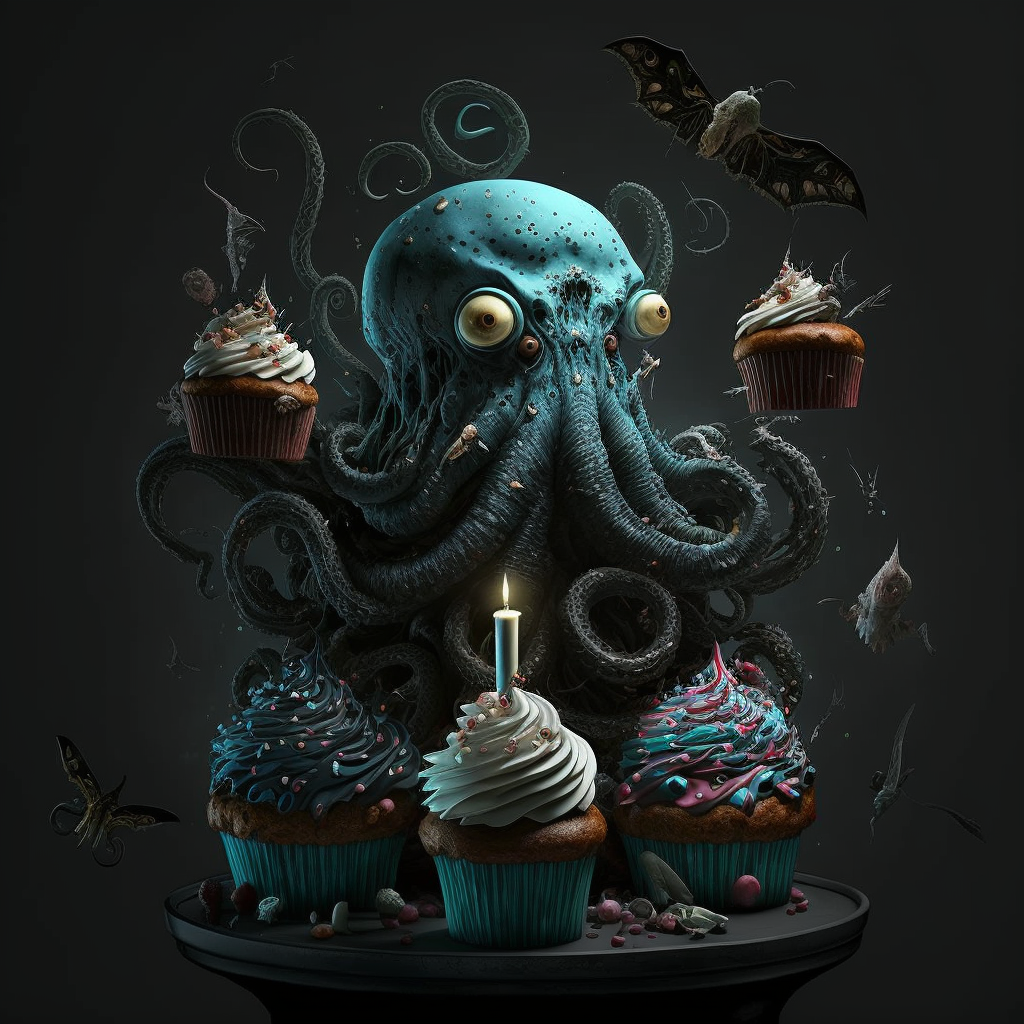
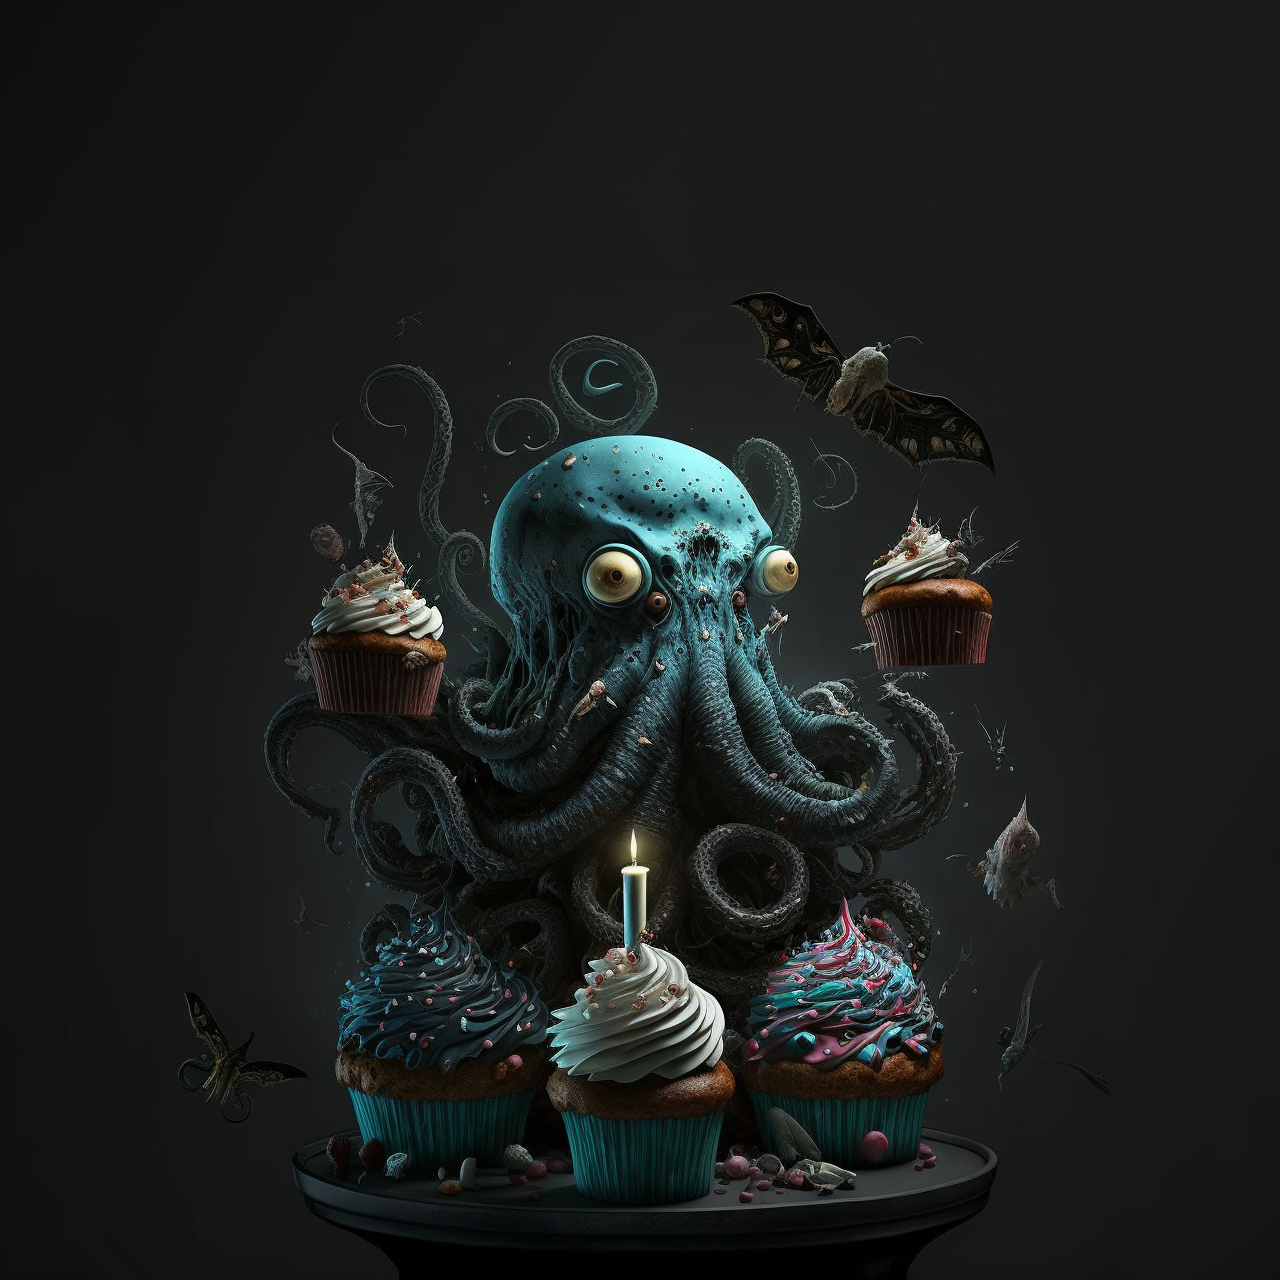
added cake

diff --git a/reviews.html b/reviews.html
@@ -66,31 +66,55 @@
 			</section>
 
 			<section>
+				<h2 class="ff-serif uppercase header-opacity fs-500">Splendid Terror</h2>
+				<h3 class="ff-sans-cond uppercase header-opacity text-accent letter-spacing-1 fs-400">
+					10/10
+				</h3>
 				<p class="text-opacity fs-300">
 					"I recently purchased a birthday cake from Creepy Cakes and I must say I was most
 					impressed. The cake was a splendid terror, the design a true work of art. The flavour was
 					simply divine, and I was in awe of the exquisite decorations. I would not hesitate to
 					recommend their services to anyone in need of a truly sinister cake."
 				</p>
+
+				<h2 class="ff-serif uppercase header-opacity fs-500">Sublime Flavors</h2>
+				<h3 class="ff-sans-cond uppercase header-opacity text-accent letter-spacing-1 fs-400">
+					10/10
+				</h3>
 				<p class="text-opacity fs-300">
 					"The birthday cake I ordered from Creepy Cakes was nothing short of a masterpiece. The
 					intricate details of the haunted house design were truly remarkable, and the flavour of
 					the cake was sublime. I had several guests who were particularly taken with the cake and
 					would definitely recommend their services to anyone looking for a truly terrifying cake!"
 				</p>
+
+				<h2 class="ff-serif uppercase header-opacity fs-500">Delightful and simply exquisite</h2>
+				<h3 class="ff-sans-cond uppercase header-opacity text-accent letter-spacing-1 fs-400">
+					10/10
+				</h3>
 				<p class="text-opacity fs-300">
-					I recently attended a Halloween party where the fare was provided by Creepy Cakes. The
+					"I recently attended a Halloween party where the fare was provided by Creepy Cakes. The
 					cupcakes were a delightful sight, with a variety of gruesome designs that put most of the
 					guests in a fright. Each cupcake had a unique flavour that was more than satisfactory, and
 					the overall presentation was simply exquisite. I will certainly be recommending them to
 					all of my friends!"
 				</p>
+
+				<h2 class="ff-serif uppercase header-opacity fs-500">Eeire decoratrions ans flavor</h2>
+				<h3 class="ff-sans-cond uppercase header-opacity text-accent letter-spacing-1 fs-400">
+					10/10
+				</h3>
 				<p class="text-opacity fs-300">
 					"I had a most macabre experience at Creepy Cakes! The cupcakes were truly chilling, with
 					their eerie decorations and flavor. The cake was adorn with a most ghastly design, perfect
 					for a birthday celebration. I recommend this establishment for any occasion that requires
 					a truly terrifying experience."
 				</p>
+
+				<h2 class="ff-serif uppercase header-opacity fs-500">True horror story</h2>
+				<h3 class="ff-sans-cond uppercase header-opacity text-accent letter-spacing-1 fs-400">
+					10/10
+				</h3>
 				<p class="text-opacity fs-300">
 					"My family and I visited Creepy Cakes for a special birthday celebration, and we were more
 					than delighted with our experience! The cupcakes were divine, with a variety of ghoulish

diff --git a/about.html b/about.html
@@ -62,7 +62,7 @@
 				<h1 class="text-accent fs-400 ff-sans-cond uppercase letter-spacing-1">
 					<span class="d-block fs-700 ff-serif text-white">About us</span> for creepy children.
 				</h1>
-
+				<img class="cake-image" src="/ANSTÄLLDA/squidcake.png" alt="" />
 				<p class="text-opacity fs-300">
 					In the outskirts of the quaint and cobblestone-paved village of Oldham, lies a most
 					peculiar bakery – for creepier children and adults alike. Long ago, in 1898, Elizabeth

diff --git a/index.css b/index.css
@@ -465,6 +465,10 @@ footer {
 	width: 70vw;
 }
 
+.cake-image {
+	width: 80vw;
+}
+
 @media (min-width: 35em) and (max-width: 59.999em) {
 	.logo-text {
 		display: none;
